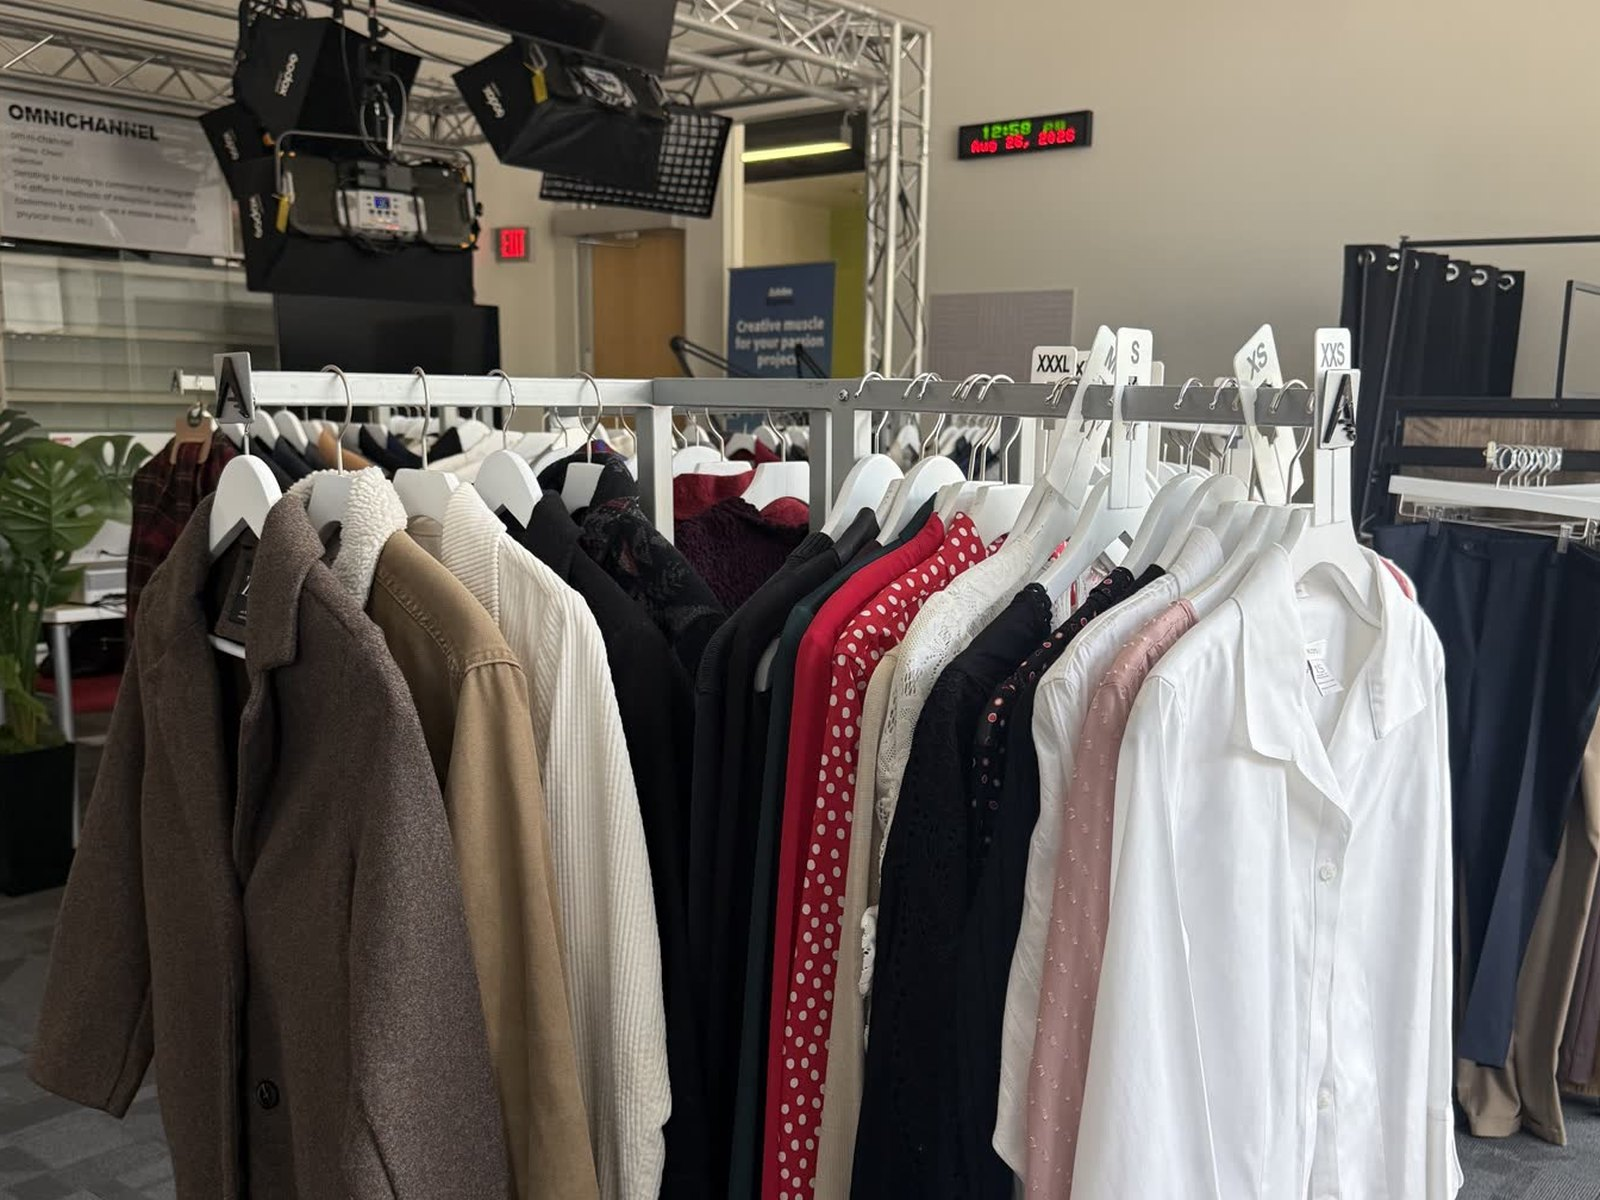
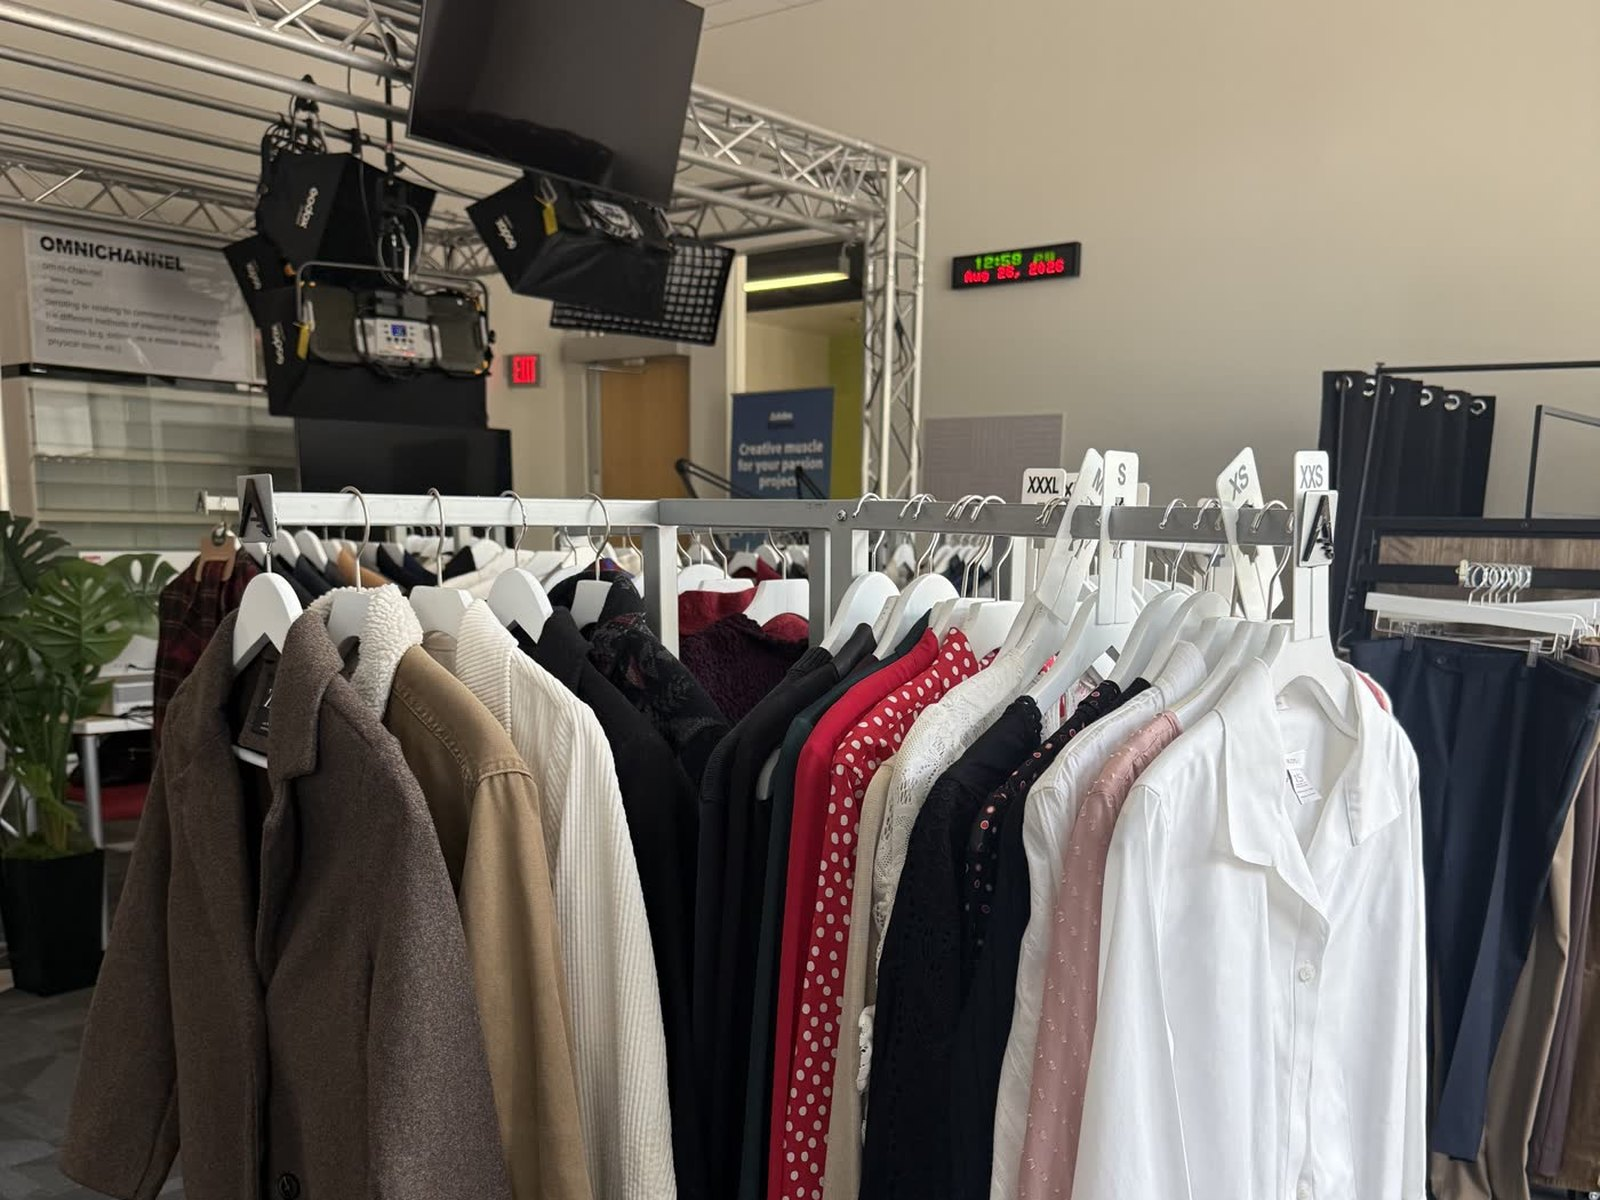
Pull back Closet after crop so zoom matches before

diff --git a/index.html b/index.html
@@ -235,7 +235,7 @@
             <figure class="ba-compare" data-ba-compare>
               <img
                 class="ba-compare-img ba-compare-img--after"
-                src="assets/closet/blazers-after.jpeg?v=align3"
+                src="assets/closet/blazers-after.jpeg?v=dezoom1"
                 alt="Blazer wall after visual merchandising reset"
                 loading="lazy"
                 width="1400"
@@ -245,7 +245,7 @@
               <div class="ba-compare-before" style="width: 50%">
                 <img
                   class="ba-compare-img ba-compare-img--before"
-                  src="assets/closet/blazers-before.jpeg?v=align3"
+                  src="assets/closet/blazers-before.jpeg?v=dezoom1"
                   alt="Blazer wall before visual merchandising reset"
                   loading="lazy"
                   width="1400"
